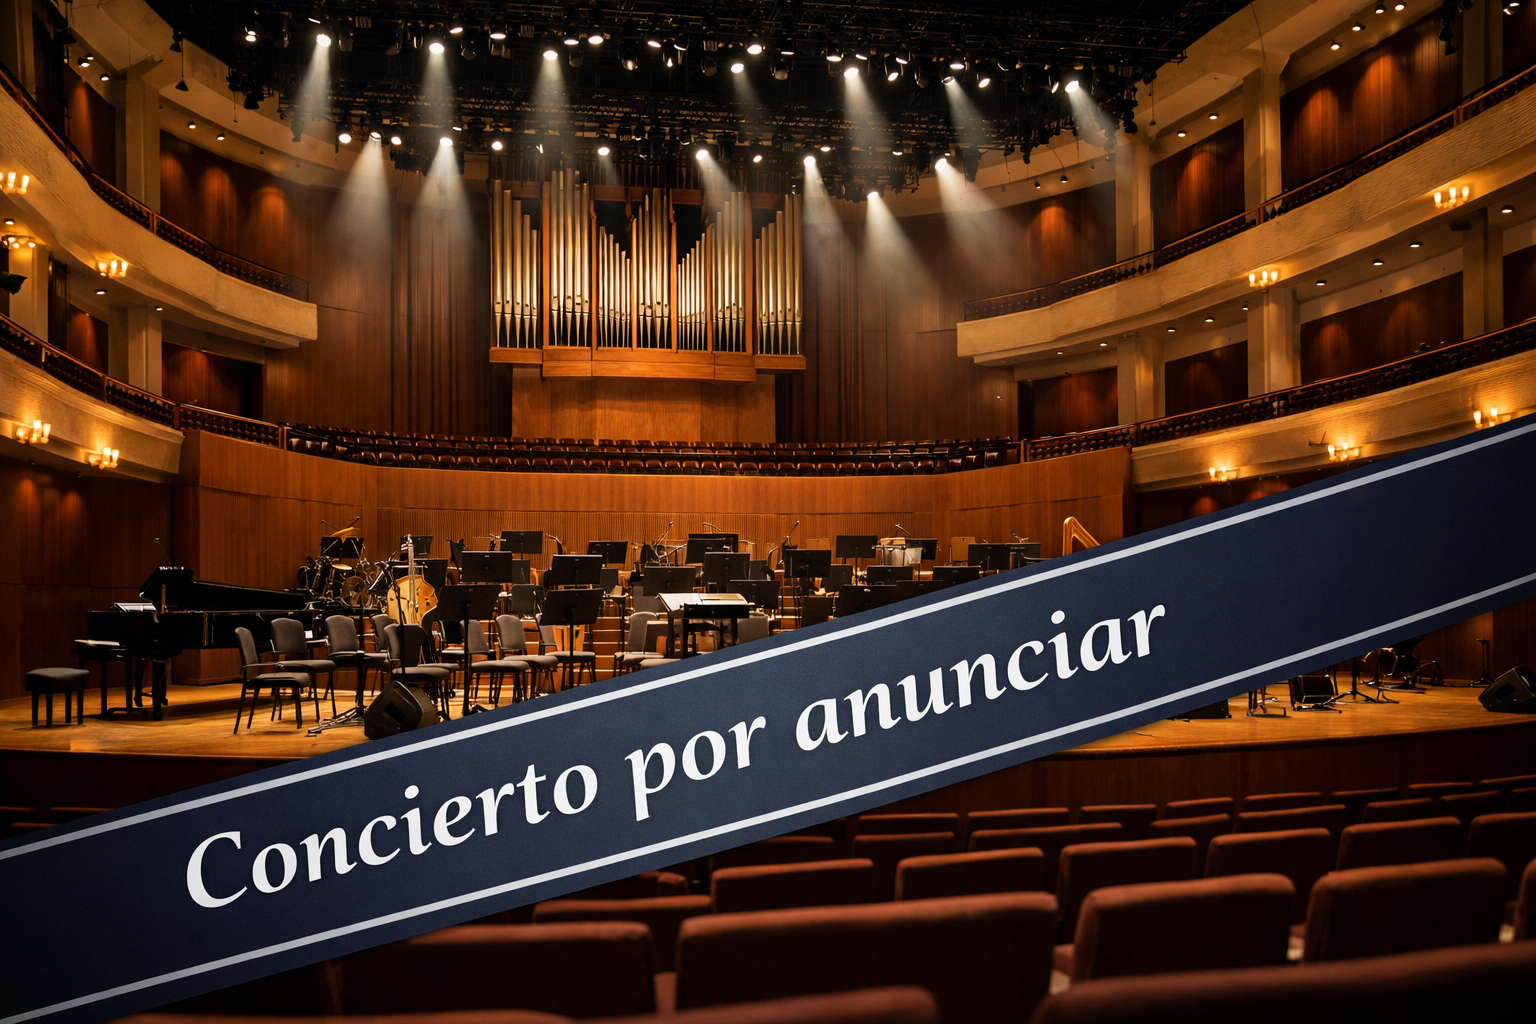
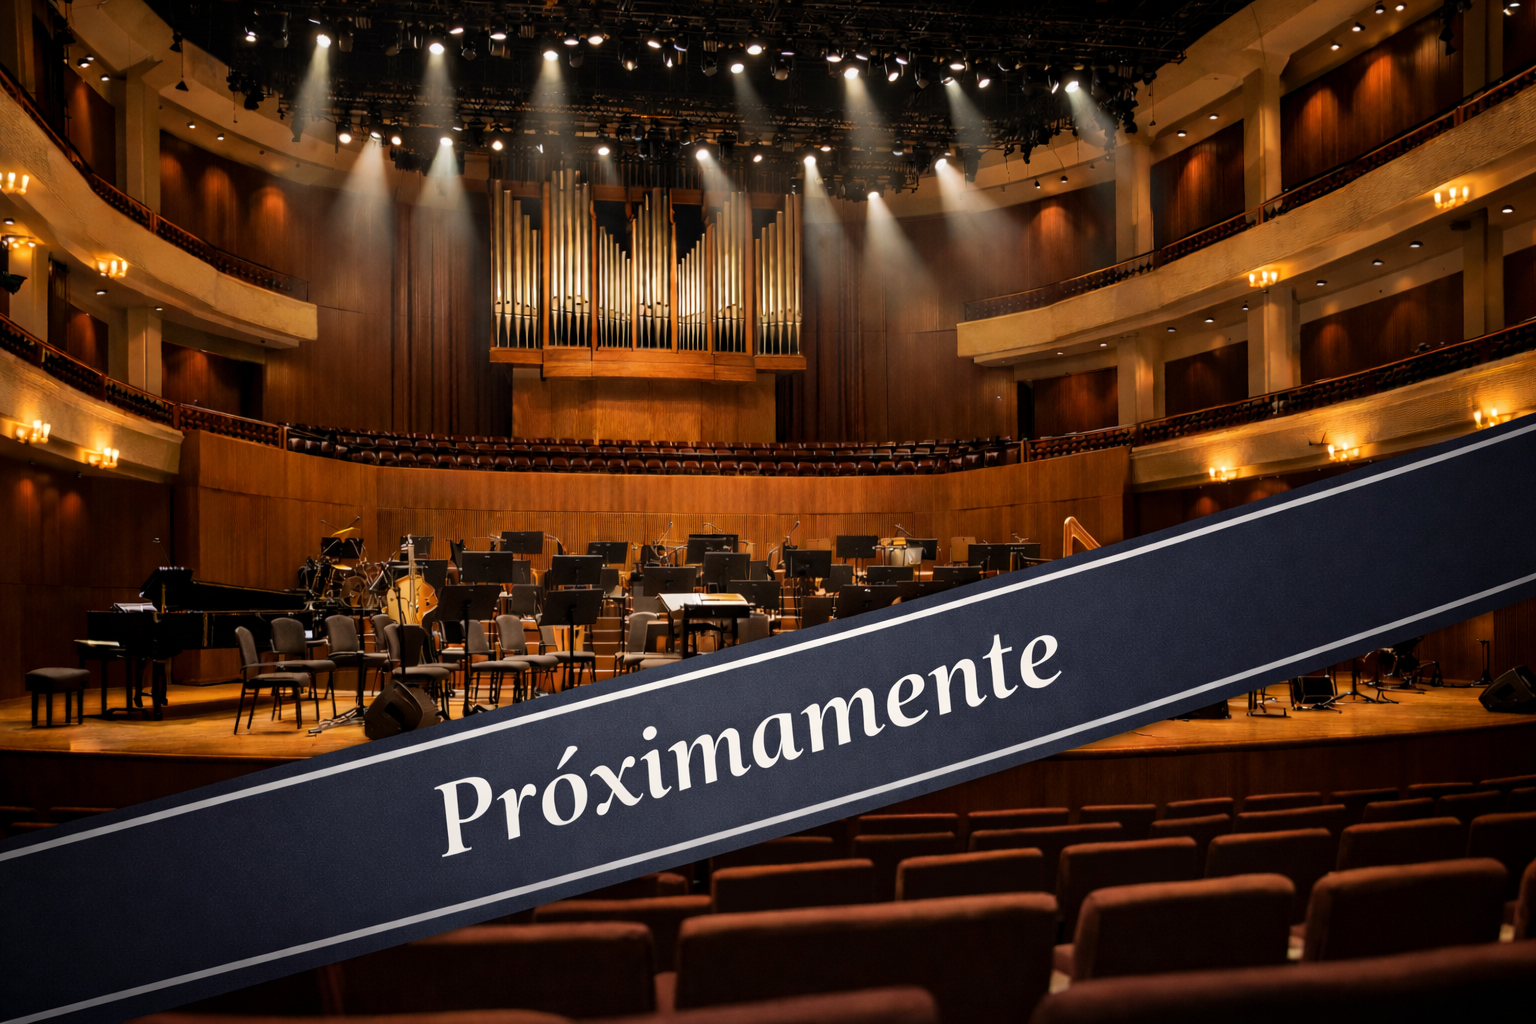
placeholder generico para proximas actuaciones

diff --git a/src/lib/actuaciones.ts b/src/lib/actuaciones.ts
@@ -17,9 +17,12 @@ export type Actuacion = {
   hora_puertas?: string | null;
 };
 
+const PLACEHOLDER = '/actuaciones/PLACEHOLDER/cabecera/placeholder-md.png';
+
 export const actuaciones: Actuacion[] = (actuacionesJson as Actuacion[]).map((a) => ({
   ...a,
-  cartel_url: a.cartel_url ?? a.cabecera_url ?? null,
+  cabecera_url: a.cabecera_url ?? PLACEHOLDER,
+  cartel_url: a.cartel_url ?? a.cabecera_url ?? PLACEHOLDER,
 }));
 
 export const upcomingActuaciones = actuaciones
